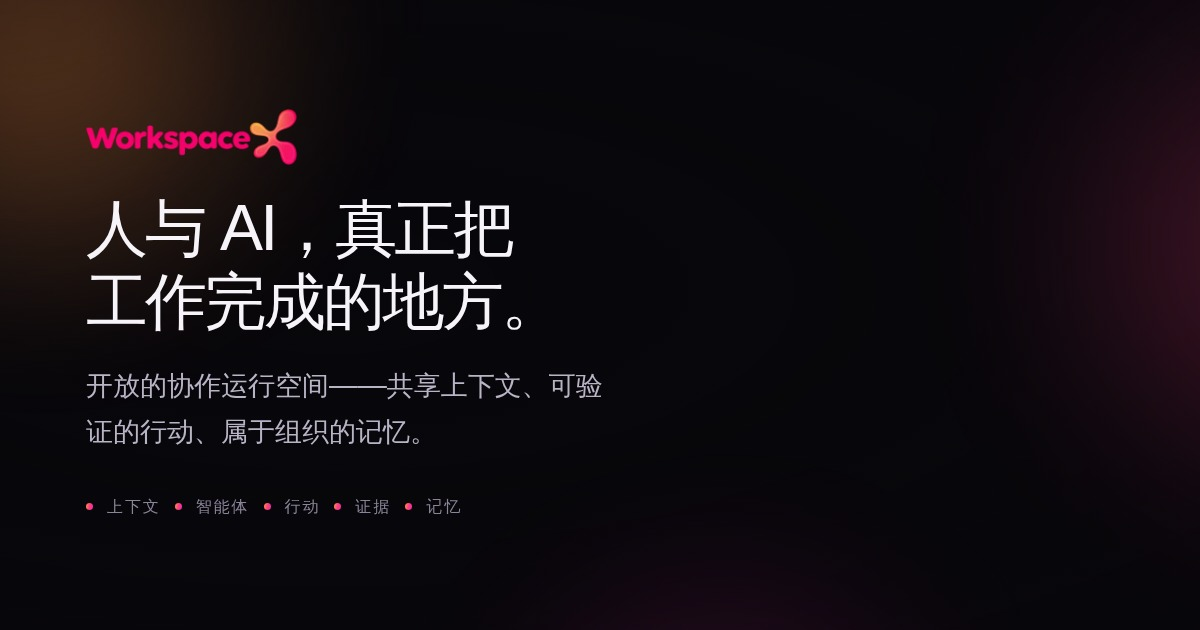
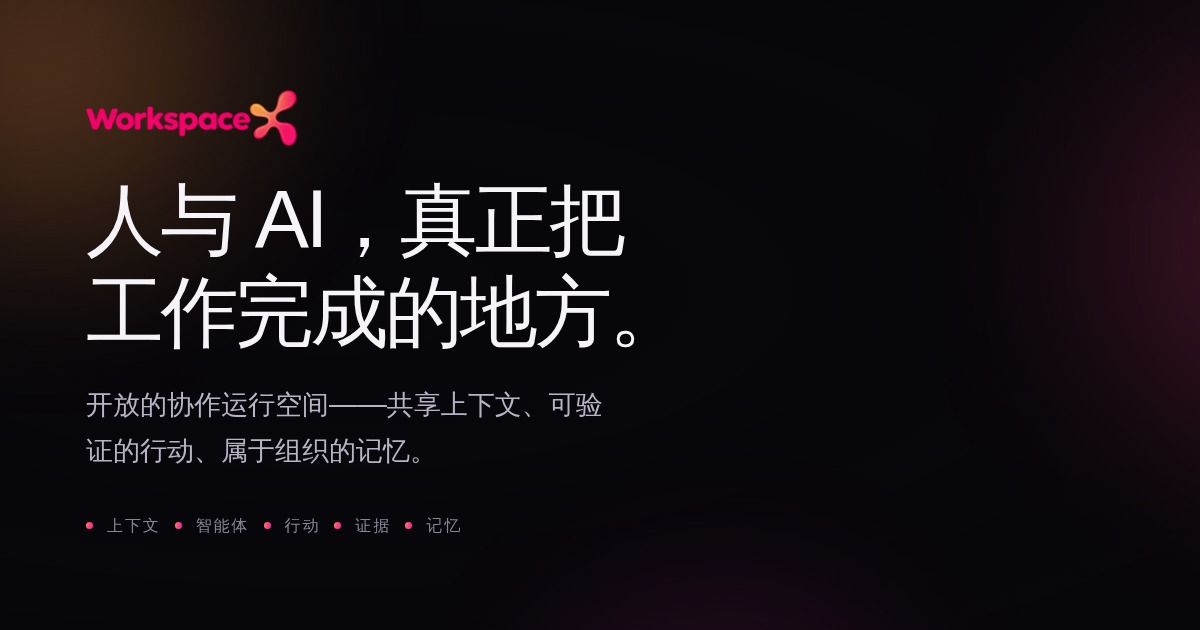
home: round 58 (9.90 → 9.94) — zh heading sizes, reduced-motion story, SVG contrast
- :where(:lang(zh)) heading sizes: a quarter of /zh/ headings (cards,
  footer, cases) were rendering at 25px instead of 12–16px.
- Reduced-motion trust diagram shows the caught failure its caption
  describes, not the success path.
- Loop labels no longer faded to 2.8:1.
- Eval: bi.samedesign, a11y.reduced.story, a11y.svgcontrast.

Claude-Session: https://claude.ai/code/session_01XLnK35RFY2CVyMNrUo85nD

diff --git a/apps/home/assets/js/diagrams.js b/apps/home/assets/js/diagrams.js
@@ -582,12 +582,7 @@ function harnessNarrow(host) {
   host.replaceChildren(s);
   registerScale(s);
 
-  const park = () => {
-    token.setAttribute('transform', `translate(${x - 18} ${centres[4]})`);
-    status.textContent = t('d.harness.pass');
-    status.setAttribute('fill', 'var(--c-evidence)');
-  };
-  if (reducedMotion()) { park(); return () => {}; }
+  if (reducedMotion()) { parkCaught({ token, status, s, at: `translate(${x - 18} ${centres[3]})` }); return () => {}; }
   return runHarness({ token, status, s, at: (i) => `translate(${x - 18} ${centres[i]})` });
 }
 
@@ -656,9 +651,7 @@ function harnessWide(host) {
   const railY = y - 16;
 
   if (reducedMotion()) {
-    token.setAttribute('transform', `translate(${centres[4]} ${railY})`);
-    status.textContent = t('d.harness.pass');
-    status.setAttribute('fill', 'var(--c-evidence)');
+    parkCaught({ token, status, s, at: `translate(${centres[3]} ${railY})` });
     return () => {};
   }
 
@@ -670,6 +663,21 @@ function harnessWide(host) {
 }
 
 const harness = (host) => (isNarrow() ? harnessNarrow(host) : harnessWide(host));
+
+/* The still frame a reduced-motion reader gets. It used to be the success
+   path — "passed", token on Evidence — directly above a caption saying "the
+   run above shows a failing check being caught and reversed". The one frame
+   that has to carry the whole animation showed the half the caption says is
+   not the point. It is the caught failure now: token on Verify, the gate
+   marked failed, the rollback path lit — the same state the animation holds
+   at 2.7 s. */
+function parkCaught({ token, status, s, at }) {
+  token.setAttribute('transform', at);
+  status.textContent = t('d.harness.fail');
+  status.setAttribute('fill', 'var(--c-fail)');
+  s.querySelectorAll('.d-harness__gate').forEach((g, gi) => g.setAttribute('data-state', gi === 3 ? 'fail' : ''));
+  s.querySelector('.d-harness__rollback')?.setAttribute('data-on', 'true');
+}
 
 /* The run: walk to verify, fail, roll back to execute, walk again, pass.
    A slow loop on purpose — the failing path is the whole message, so it has to

diff --git a/apps/home/assets/css/base.css b/apps/home/assets/css/base.css
@@ -237,10 +237,15 @@ h3 { font-size: var(--t-h3); letter-spacing: calc(-0.02em * var(--track-tight));
 /* Han glyphs fill their em box; latin letters do not. At an identical pixel
    size a Chinese headline therefore reads noticeably heavier and larger than
    the English one it replaces, and the two languages stop looking like the
-   same design. Scaling the display sizes back restores the match. */
-:lang(zh) h1 { font-size: calc(var(--t-hero) * 0.86); line-height: 1.16; }
-:lang(zh) h2 { font-size: calc(var(--t-h2)   * 0.9);  line-height: 1.24; }
-:lang(zh) h3 { font-size: calc(var(--t-h3)   * 0.94); }
+   same design. Scaling the display sizes back restores the match.
+   Wrapped in :where() so they weigh no more than the plain `h2 {}` they
+   replace. At (0,1,1) they outranked every component's own heading class, so
+   on /zh/ card titles, footer labels and case headings set at 12–16px in
+   English all rendered at the 25px section size — a quarter of the page's
+   headings, found by the eval comparing the two languages. */
+:where(:lang(zh)) h1 { font-size: calc(var(--t-hero) * 0.86); line-height: 1.16; }
+:where(:lang(zh)) h2 { font-size: calc(var(--t-h2)   * 0.9);  line-height: 1.24; }
+:where(:lang(zh)) h3 { font-size: calc(var(--t-h3)   * 0.94); }
 
 p { text-wrap: pretty; }
 

diff --git a/apps/home/assets/css/site.css b/apps/home/assets/css/site.css
@@ -221,9 +221,9 @@ h3 { font-size: var(--t-h3); letter-spacing: calc(-0.02em * var(--track-tight));
 
 :lang(zh) body, :lang(zh) p { line-height: 1.75; }
 
-:lang(zh) h1 { font-size: calc(var(--t-hero) * 0.86); line-height: 1.16; }
-:lang(zh) h2 { font-size: calc(var(--t-h2)   * 0.9);  line-height: 1.24; }
-:lang(zh) h3 { font-size: calc(var(--t-h3)   * 0.94); }
+:where(:lang(zh)) h1 { font-size: calc(var(--t-hero) * 0.86); line-height: 1.16; }
+:where(:lang(zh)) h2 { font-size: calc(var(--t-h2)   * 0.9);  line-height: 1.24; }
+:where(:lang(zh)) h3 { font-size: calc(var(--t-h3)   * 0.94); }
 
 p { text-wrap: pretty; }
 
@@ -1759,10 +1759,8 @@ html:not(.js) [data-stagger] > * {
 .d-loop__ring {
   stroke: rgba(255, 255, 255, calc(0.16 + 0.26 * var(--e, 0)));
 }
-.d-loop__node .d-label {
-  fill: var(--fg-dim);
-  opacity: calc(0.62 + 0.38 * var(--e, 0));
-}
+
+.d-loop__node .d-label { fill: var(--fg-dim); }
 .d-loop__node[data-active="true"] .d-label { fill: var(--fg); }
 .d-loop__centre { animation: d-centre 420ms var(--ease-out); }
 @keyframes d-centre {

diff --git a/apps/home/assets/css/diagrams.css b/apps/home/assets/css/diagrams.css
@@ -74,10 +74,11 @@
 .d-loop__ring {
   stroke: rgba(255, 255, 255, calc(0.16 + 0.26 * var(--e, 0)));
 }
-.d-loop__node .d-label {
-  fill: var(--fg-dim);
-  opacity: calc(0.62 + 0.38 * var(--e, 0));
-}
+/* The inactive labels were faded to 62% on top of --fg-dim: about 2.8:1 on
+   the page, under the 4.5 a 13px label needs. axe does not look inside SVG,
+   so nothing said so. The emphasis is carried by the fill (dim → full) and
+   the dot; the label itself stays readable. */
+.d-loop__node .d-label { fill: var(--fg-dim); }
 .d-loop__node[data-active="true"] .d-label { fill: var(--fg); }
 .d-loop__centre { animation: d-centre 420ms var(--ease-out); }
 @keyframes d-centre {

diff --git a/apps/home/docs/REVIEW-LOG.md b/apps/home/docs/REVIEW-LOG.md
@@ -1429,3 +1429,19 @@ Considered and not done: folding `print.css` into the bundle would take the
 request count from 17 to 16 and move its bytes onto the render-blocking path.
 A `media="print"` sheet never blocks rendering, so that trades a real cost for
 a better number.
+
+### Round 58 — 9.90 → 9.94, and the set grows to 55 cases
+
+The set was near its ceiling, so an **independent reviewer** (a separate agent,
+no access to this round's reasoning) went through every section in both
+languages at 1280, 390 and 320 px and returned 25 ranked problems. Rounds
+58–63 work through them; each one a script can see became a case, proved red
+on the code before the fix.
+
+| # | Problem | Fix |
+|---|-----|-----|
+| 1 | **Inter shipped its whole 100–900 weight axis**; the page uses 400–700. Two-thirds of a 48 KB font downloaded by every visitor and never drawn. | `build-fonts.mjs` pins the axis to 400–700 (still variable): **48 → 34 KB**, first load 166 → 153 KB. Upstream files kept in `scripts/fonts-src/`, fingerprinted. `check-css` now fails a `font-weight` outside the kept range — proved red with a 300. Outfit left alone: the same cut makes it *larger*. |
+| 2 | The "also in 中文" offer — the switch a visitor who missed the real one actually taps — **still dropped your place**. | It carries the current section too. New case `nav.hint.keeps.place`: 0 on the old code, 1 now. |
+| 3 | **A quarter of the Chinese page's headings were the wrong size.** `:lang(zh) h3` (specificity 0,1,1) outranked every component's own heading class, so card titles, case headings and the footer labels set at 12–16 px in English rendered at 25 px on `/zh/` — the footer read as four giant grey titles. | The per-language heading sizes are wrapped in `:where()`. New case `bi.samedesign` compares every heading's size across the two pages: **0.76 before, 1.00 after.** |
+| 4 | **With reduced motion the trust diagram contradicted its caption**: the still frame was the success path ("passed", token on Evidence) directly above "the run above shows a failing check being caught and reversed". | The still frame is the caught failure — token on Verify, gate marked failed, rollback lit. New case `a11y.reduced.story`. |
+| 5 | **The loop's inactive labels were 2.8:1** — `--fg-dim` faded to 62% — on 13 px text. axe does not look inside SVG, so no gate said so. | The fade is gone; emphasis is carried by the fill and the dot. New case `a11y.svgcontrast` computes the effective colour of every diagram label through its opacity chain: **0.76 → 1.00**. |
